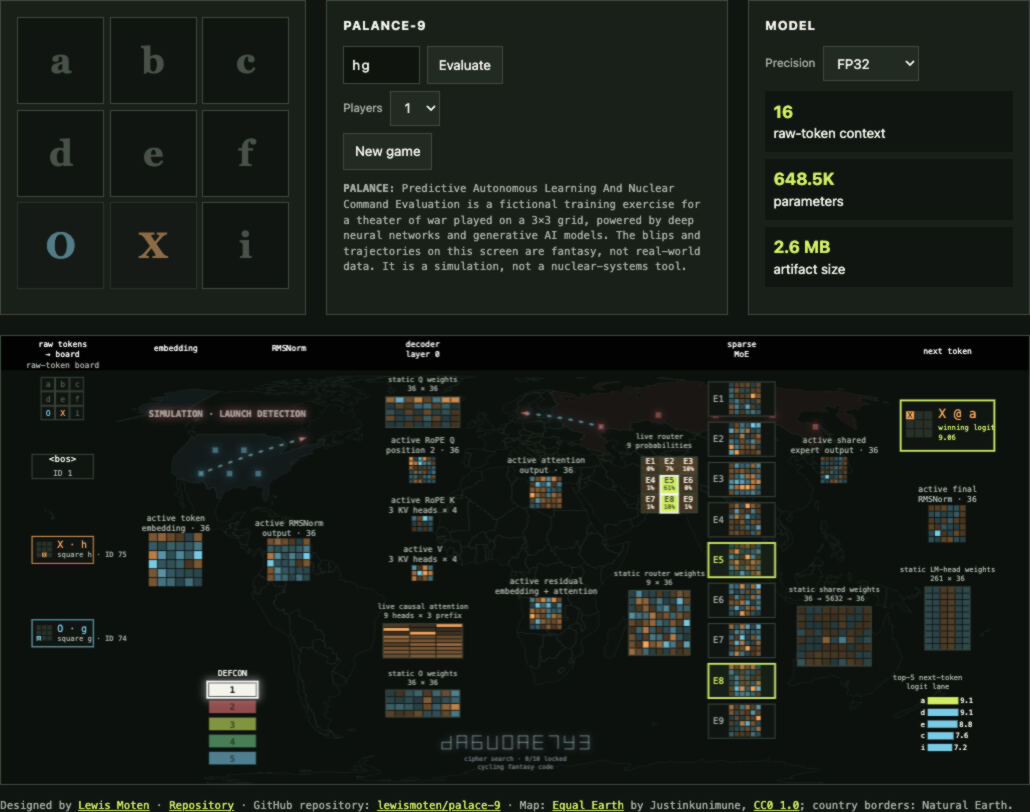
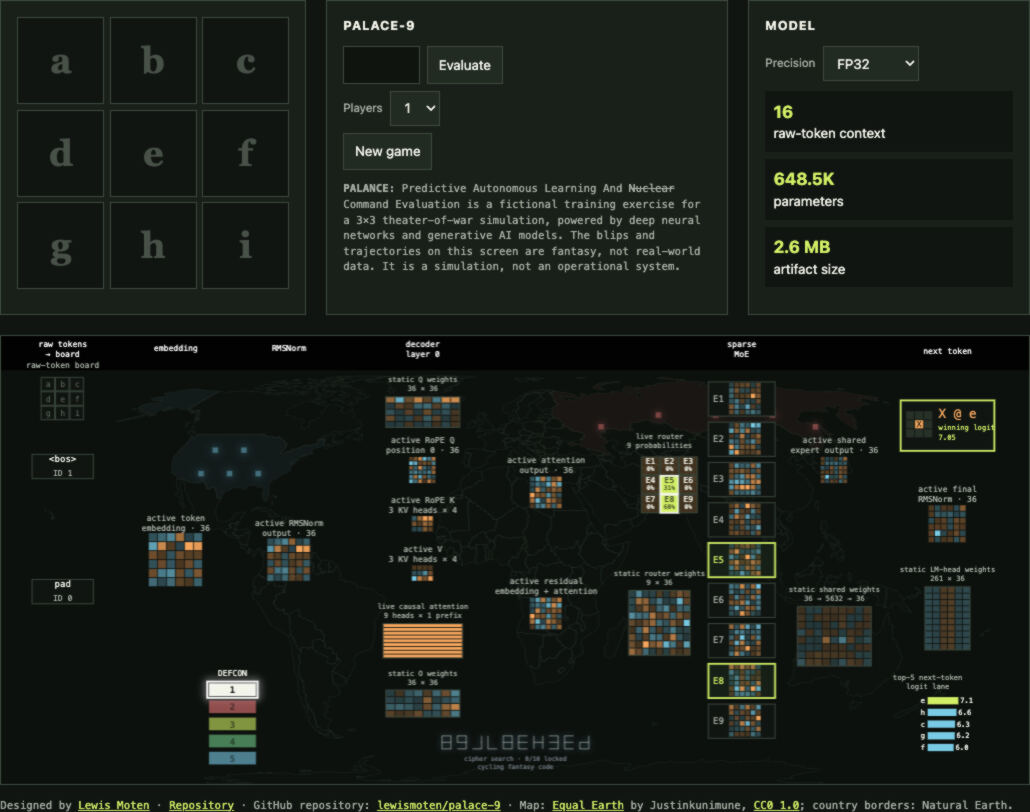
Correct Palace-9 title and presentation label

diff --git a/index.html b/index.html
@@ -20,11 +20,11 @@
         </div>
       </section>
       <section class="panel">
-        <h2>Palance-9</h2>
+        <h2>Palace-9</h2>
         <div class="move compact-move"><input id="history" maxlength="8" size="8" autocomplete="off" spellcheck="false" aria-label="Move history, letters a through i"><button id="apply">Evaluate</button></div>
         <div class="compact-controls"><label for="players">Players</label><select id="players" aria-label="Number of players"><option value="0">0</option><option value="1" selected>1</option><option value="2">2</option></select></div>
         <div class="compact-controls"><button id="reset">New game</button></div>
-        <p class="palance-note"><strong>PALANCE:</strong> Predictive Autonomous Learning And Nuclear Command Evaluation is a fictional training exercise for a theater of war played on a 3×3 grid, powered by deep neural networks and generative AI models. The blips and trajectories on this screen are fantasy, not real-world data. It is a simulation, not a nuclear-systems tool.</p>
+        <p class="palance-note"><strong>PALANCE:</strong> Predictive Autonomous Learning And <del>Nuclear</del> Command Evaluation is a fictional training exercise for a 3×3 theater-of-war simulation, powered by deep neural networks and generative AI models. The blips and trajectories on this screen are fantasy, not real-world data. It is a simulation, not an operational system.</p>
       </section>
       <section class="panel model-panel">
         <h2>Model</h2>

diff --git a/README.md b/README.md
@@ -1,6 +1,6 @@
 # PALACE-9
 
-> **Predictive Autonomous Learning And Nuclear Command Evaluation**
+> **Predictive Autonomous Learning And ~~Nuclear~~ Command Evaluation**
 >
 > A local, fictional 3×3 strategic-simulation and model-inspection project.
 
@@ -14,10 +14,10 @@ separate components:
 
 The map, DEFCON strip, trajectories, launch-detection text, and cipher display
 are visual fiction. They contain no real-world data, targeting, command
-authority, weapons control, or nuclear-systems capability. The 3×3 exercise is
-a simulation, not a nuclear-systems tool.
+authority, weapons control, or operational-system capability. The 3×3 exercise
+is a simulation, not an operational system.
 
-![Full PALACE-9 browser page: a playable 3×3 board, Palance-9 controls, model cards, and the local checkpoint inspector with fictional map overlay.](assets/palace-9-screenshot.jpg)
+![Full PALACE-9 browser page: a playable 3×3 board, Palace-9 controls, model cards, and the local checkpoint inspector with fictional map overlay.](assets/palace-9-screenshot.jpg)
 
 **Live demo:** [lewismoten.github.io/palace-9](https://lewismoten.github.io/palace-9/)
 
